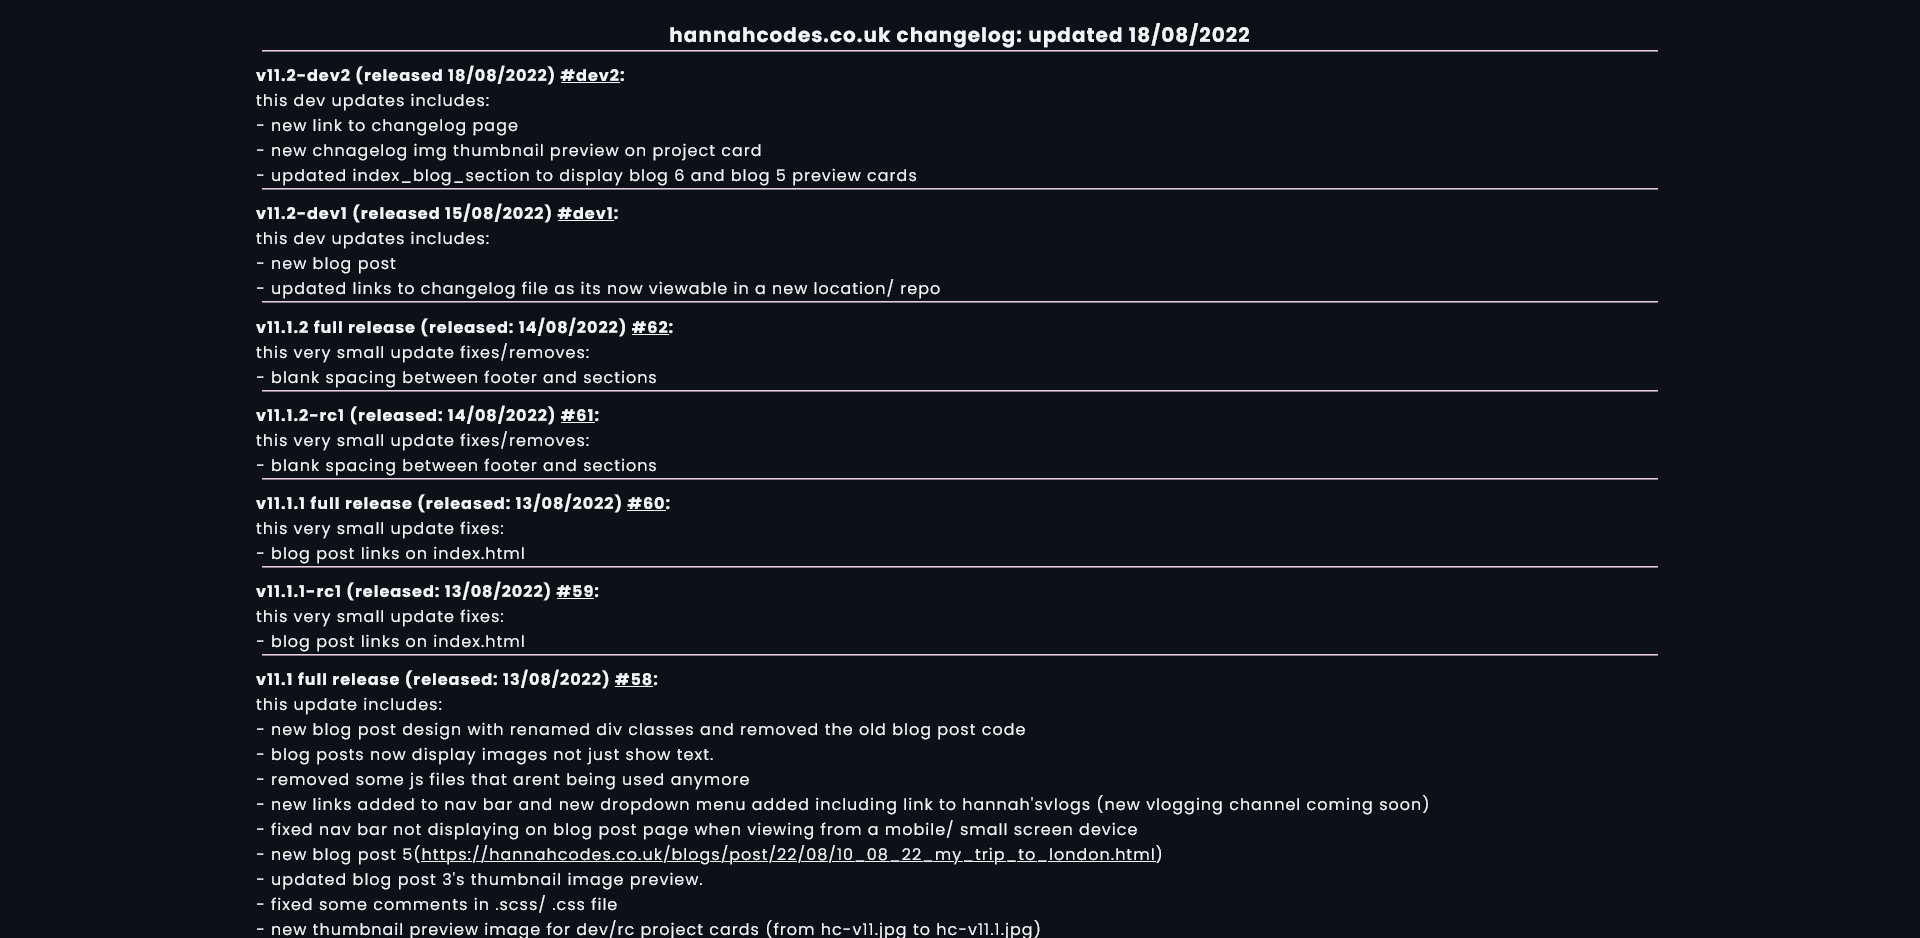
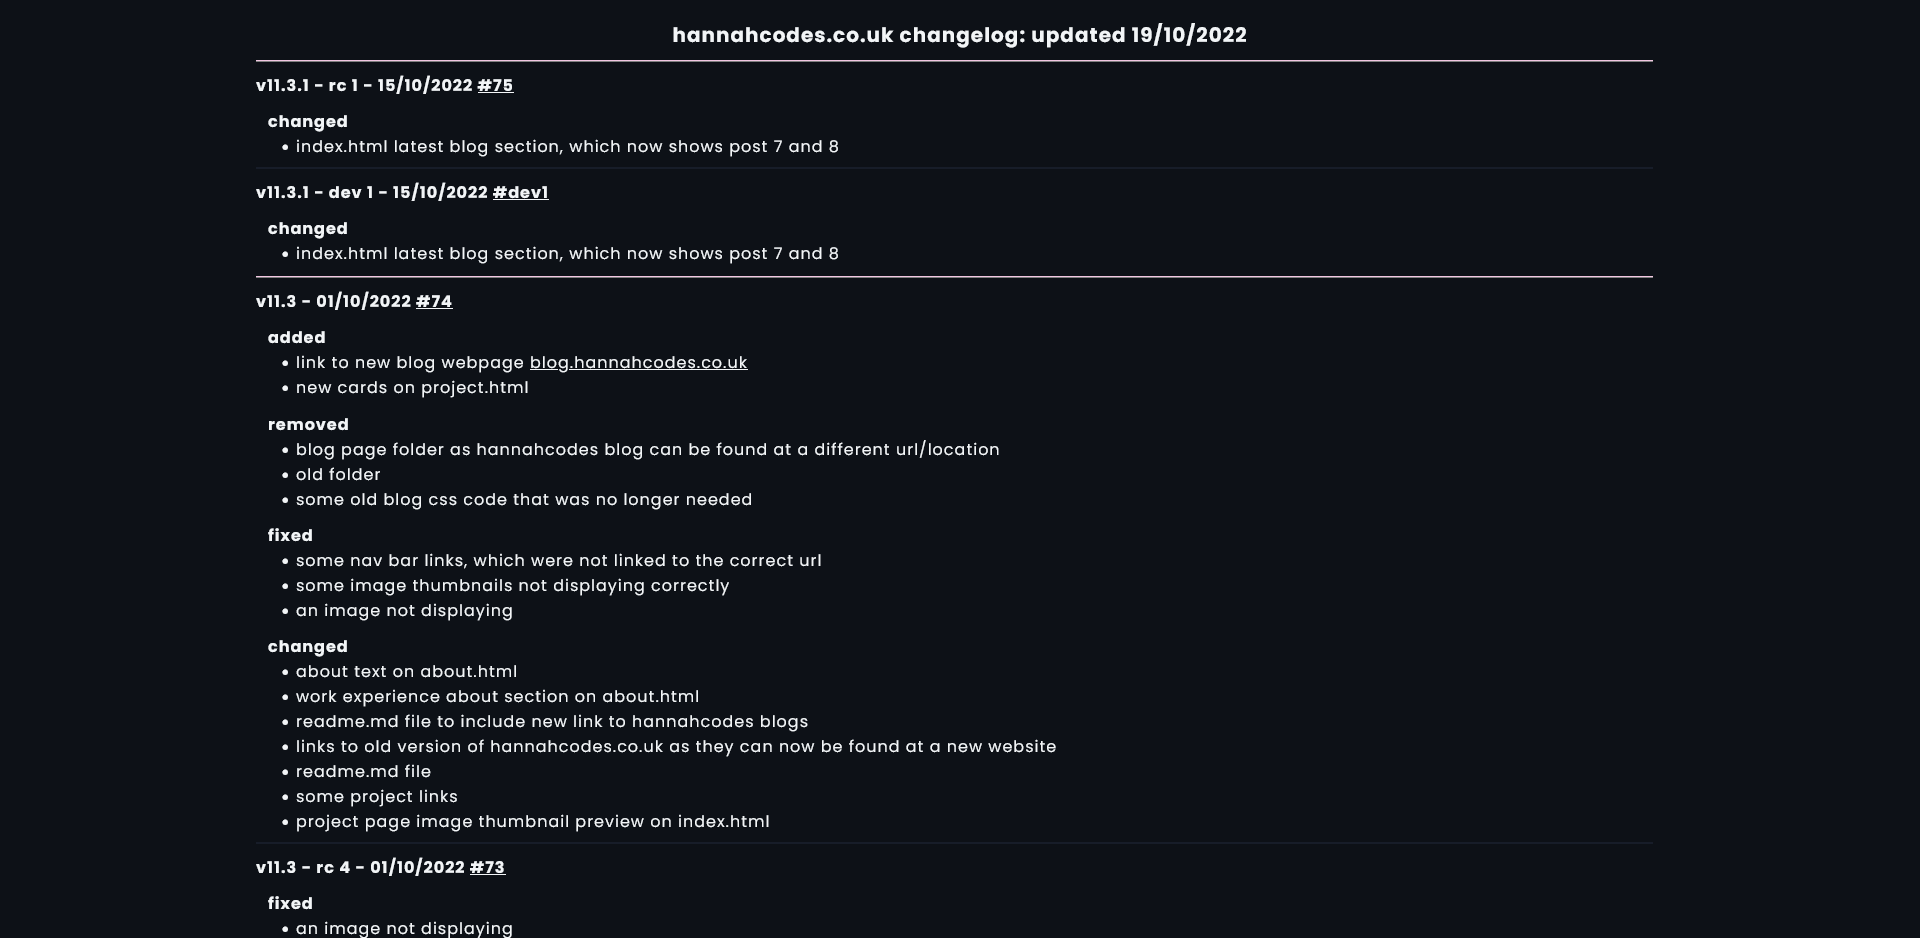
added new cards to v11.2, 11. 2.1, 11.3 and v11.3.1 also updated changelog thumbnail preview image

Changed region(s): [[0.125, 0.0618, 0.75, 1.0], [0.3438, 0.0309, 0.6562, 0.0618]]

diff --git a/projects.html b/projects.html
@@ -217,11 +217,47 @@ class="bg"
             <div  class="project_card project_card_a">
               <div class="blog_page_thumb" style="background-image: url(/assets/images/projects/hc-v11.2.jpg);"></div>
               <article>
-                <div class="project_links_placement"><div class="link_placement"><a href="https://hannahcodes.co.uk/index.html" class="projects_links"> hannahcodes.co.uk (v11.2)</a> <svg xmlns="http://www.w3.org/2000/svg" viewBox="0 0 512 512"><!--! Font Awesome Pro 6.1.1 by @fontawesome - https://fontawesome.com License - https://fontawesome.com/license (Commercial License) Copyright 2022 Fonticons, Inc. --><path d="M384 320c-17.67 0-32 14.33-32 32v96H64V160h96c17.67 0 32-14.32 32-32s-14.33-32-32-32L64 96c-35.35 0-64 28.65-64 64V448c0 35.34 28.65 64 64 64h288c35.35 0 64-28.66 64-64v-96C416 334.3 401.7 320 384 320zM488 0H352c-12.94 0-24.62 7.797-29.56 19.75c-4.969 11.97-2.219 25.72 6.938 34.88L370.8 96L169.4 297.4c-12.5 12.5-12.5 32.75 0 45.25C175.6 348.9 183.8 352 192 352s16.38-3.125 22.62-9.375L416 141.3l41.38 41.38c9.156 9.141 22.88 11.84 34.88 6.938C504.2 184.6 512 172.9 512 160V24C512 10.74 501.3 0 488 0z"/></svg></div> </div>
+                <div class="project_links_placement"><div class="link_placement"><a href="https://old.hannahcodes.co.uk/hannahcodes/v11.2/index.html" class="projects_links">hannahcodes.co.uk (v11.2)</a> <svg xmlns="http://www.w3.org/2000/svg" viewBox="0 0 512 512"><!--! Font Awesome Pro 6.1.1 by @fontawesome - https://fontawesome.com License - https://fontawesome.com/license (Commercial License) Copyright 2022 Fonticons, Inc. --><path d="M384 320c-17.67 0-32 14.33-32 32v96H64V160h96c17.67 0 32-14.32 32-32s-14.33-32-32-32L64 96c-35.35 0-64 28.65-64 64V448c0 35.34 28.65 64 64 64h288c35.35 0 64-28.66 64-64v-96C416 334.3 401.7 320 384 320zM488 0H352c-12.94 0-24.62 7.797-29.56 19.75c-4.969 11.97-2.219 25.72 6.938 34.88L370.8 96L169.4 297.4c-12.5 12.5-12.5 32.75 0 45.25C175.6 348.9 183.8 352 192 352s16.38-3.125 22.62-9.375L416 141.3l41.38 41.38c9.156 9.141 22.88 11.84 34.88 6.938C504.2 184.6 512 172.9 512 160V24C512 10.74 501.3 0 488 0z"/></svg></div> </div>
         <br>
         <div class="project_links_placement"><div class="link_placement"><svg class="source_code_svg" xmlns="http://www.w3.org/2000/svg" viewBox="0 0 448 512"><path d="M160 80C160 112.8 140.3 140.1 112 153.3V241.1C130.8 230.2 152.7 224 176 224H272C307.3 224 336 195.3 336 160V153.3C307.7 140.1 288 112.8 288 80C288 35.82 323.8 0 368 0C412.2 0 448 35.82 448 80C448 112.8 428.3 140.1 400 153.3V160C400 230.7 342.7 288 272 288H176C140.7 288 112 316.7 112 352V358.7C140.3 371 160 399.2 160 432C160 476.2 124.2 512 80 512C35.82 512 0 476.2 0 432C0 399.2 19.75 371 48 358.7V153.3C19.75 140.1 0 112.8 0 80C0 35.82 35.82 0 80 0C124.2 0 160 35.82 160 80V80zM80 104C93.25 104 104 93.25 104 80C104 66.75 93.25 56 80 56C66.75 56 56 66.75 56 80C56 93.25 66.75 104 80 104zM368 56C354.7 56 344 66.75 344 80C344 93.25 354.7 104 368 104C381.3 104 392 93.25 392 80C392 66.75 381.3 56 368 56zM80 456C93.25 456 104 445.3 104 432C104 418.7 93.25 408 80 408C66.75 408 56 418.7 56 432C56 445.3 66.75 456 80 456z"/></svg> 
-          <a href="https://github.com/Transgirlcoding/hannahcodes.co.uk" class="source_code_links">source code</a></div>
-        </div>
+          <a href="https://github.com/Transgirlcoding/old.hannahcodes.co.uk/hannahcodes/v11.2/" class="source_code_links">source code</a></div>
+    </div>
+              </article>
+            </div>
+          </div>
+          <div class="item-7">
+            <div  class="project_card project_card_a">
+              <div class="blog_page_thumb" style="background-image: url(/assets/images/projects/hc-v11.2.jpg);"></div>
+              <article>
+                <div class="project_links_placement"><div class="link_placement"><a href="https://old.hannahcodes.co.uk/hannahcodes/v11.2.1/index.html" class="projects_links">hannahcodes.co.uk (v11.2.1)</a> <svg xmlns="http://www.w3.org/2000/svg" viewBox="0 0 512 512"><!--! Font Awesome Pro 6.1.1 by @fontawesome - https://fontawesome.com License - https://fontawesome.com/license (Commercial License) Copyright 2022 Fonticons, Inc. --><path d="M384 320c-17.67 0-32 14.33-32 32v96H64V160h96c17.67 0 32-14.32 32-32s-14.33-32-32-32L64 96c-35.35 0-64 28.65-64 64V448c0 35.34 28.65 64 64 64h288c35.35 0 64-28.66 64-64v-96C416 334.3 401.7 320 384 320zM488 0H352c-12.94 0-24.62 7.797-29.56 19.75c-4.969 11.97-2.219 25.72 6.938 34.88L370.8 96L169.4 297.4c-12.5 12.5-12.5 32.75 0 45.25C175.6 348.9 183.8 352 192 352s16.38-3.125 22.62-9.375L416 141.3l41.38 41.38c9.156 9.141 22.88 11.84 34.88 6.938C504.2 184.6 512 172.9 512 160V24C512 10.74 501.3 0 488 0z"/></svg></div> </div>
+        <br>
+        <div class="project_links_placement"><div class="link_placement"><svg class="source_code_svg" xmlns="http://www.w3.org/2000/svg" viewBox="0 0 448 512"><path d="M160 80C160 112.8 140.3 140.1 112 153.3V241.1C130.8 230.2 152.7 224 176 224H272C307.3 224 336 195.3 336 160V153.3C307.7 140.1 288 112.8 288 80C288 35.82 323.8 0 368 0C412.2 0 448 35.82 448 80C448 112.8 428.3 140.1 400 153.3V160C400 230.7 342.7 288 272 288H176C140.7 288 112 316.7 112 352V358.7C140.3 371 160 399.2 160 432C160 476.2 124.2 512 80 512C35.82 512 0 476.2 0 432C0 399.2 19.75 371 48 358.7V153.3C19.75 140.1 0 112.8 0 80C0 35.82 35.82 0 80 0C124.2 0 160 35.82 160 80V80zM80 104C93.25 104 104 93.25 104 80C104 66.75 93.25 56 80 56C66.75 56 56 66.75 56 80C56 93.25 66.75 104 80 104zM368 56C354.7 56 344 66.75 344 80C344 93.25 354.7 104 368 104C381.3 104 392 93.25 392 80C392 66.75 381.3 56 368 56zM80 456C93.25 456 104 445.3 104 432C104 418.7 93.25 408 80 408C66.75 408 56 418.7 56 432C56 445.3 66.75 456 80 456z"/></svg> 
+          <a href="https://github.com/Transgirlcoding/old.hannahcodes.co.uk/hannahcodes/v11.2.1/" class="source_code_links">source code</a></div>
+    </div>
+              </article>
+            </div>
+          </div>
+          <div class="item-7">
+            <div  class="project_card project_card_a">
+              <div class="blog_page_thumb" style="background-image: url(/assets/images/projects/hc-v11.2.jpg);"></div>
+              <article>
+                <div class="project_links_placement"><div class="link_placement"><a href="https://old.hannahcodes.co.uk/hannahcodes/v11.3/index.html" class="projects_links">hannahcodes.co.uk (v11.3)</a> <svg xmlns="http://www.w3.org/2000/svg" viewBox="0 0 512 512"><!--! Font Awesome Pro 6.1.1 by @fontawesome - https://fontawesome.com License - https://fontawesome.com/license (Commercial License) Copyright 2022 Fonticons, Inc. --><path d="M384 320c-17.67 0-32 14.33-32 32v96H64V160h96c17.67 0 32-14.32 32-32s-14.33-32-32-32L64 96c-35.35 0-64 28.65-64 64V448c0 35.34 28.65 64 64 64h288c35.35 0 64-28.66 64-64v-96C416 334.3 401.7 320 384 320zM488 0H352c-12.94 0-24.62 7.797-29.56 19.75c-4.969 11.97-2.219 25.72 6.938 34.88L370.8 96L169.4 297.4c-12.5 12.5-12.5 32.75 0 45.25C175.6 348.9 183.8 352 192 352s16.38-3.125 22.62-9.375L416 141.3l41.38 41.38c9.156 9.141 22.88 11.84 34.88 6.938C504.2 184.6 512 172.9 512 160V24C512 10.74 501.3 0 488 0z"/></svg></div> </div>
+        <br>
+        <div class="project_links_placement"><div class="link_placement"><svg class="source_code_svg" xmlns="http://www.w3.org/2000/svg" viewBox="0 0 448 512"><path d="M160 80C160 112.8 140.3 140.1 112 153.3V241.1C130.8 230.2 152.7 224 176 224H272C307.3 224 336 195.3 336 160V153.3C307.7 140.1 288 112.8 288 80C288 35.82 323.8 0 368 0C412.2 0 448 35.82 448 80C448 112.8 428.3 140.1 400 153.3V160C400 230.7 342.7 288 272 288H176C140.7 288 112 316.7 112 352V358.7C140.3 371 160 399.2 160 432C160 476.2 124.2 512 80 512C35.82 512 0 476.2 0 432C0 399.2 19.75 371 48 358.7V153.3C19.75 140.1 0 112.8 0 80C0 35.82 35.82 0 80 0C124.2 0 160 35.82 160 80V80zM80 104C93.25 104 104 93.25 104 80C104 66.75 93.25 56 80 56C66.75 56 56 66.75 56 80C56 93.25 66.75 104 80 104zM368 56C354.7 56 344 66.75 344 80C344 93.25 354.7 104 368 104C381.3 104 392 93.25 392 80C392 66.75 381.3 56 368 56zM80 456C93.25 456 104 445.3 104 432C104 418.7 93.25 408 80 408C66.75 408 56 418.7 56 432C56 445.3 66.75 456 80 456z"/></svg> 
+          <a href="https://github.com/Transgirlcoding/old.hannahcodes.co.uk/hannahcodes/v11.3/" class="source_code_links">source code</a></div>
+    </div>
+              </article>
+            </div>
+          </div>
+          <div class="item-7">
+            <div  class="project_card project_card_a">
+              <div class="blog_page_thumb" style="background-image: url(/assets/images/projects/hc-v11.2.jpg);"></div>
+              <article>
+                <div class="project_links_placement"><div class="link_placement"><a href="https://hannahcodes.co.uk/index.html" class="projects_links">hannahcodes.co.uk (v11.3.1)</a> <svg xmlns="http://www.w3.org/2000/svg" viewBox="0 0 512 512"><!--! Font Awesome Pro 6.1.1 by @fontawesome - https://fontawesome.com License - https://fontawesome.com/license (Commercial License) Copyright 2022 Fonticons, Inc. --><path d="M384 320c-17.67 0-32 14.33-32 32v96H64V160h96c17.67 0 32-14.32 32-32s-14.33-32-32-32L64 96c-35.35 0-64 28.65-64 64V448c0 35.34 28.65 64 64 64h288c35.35 0 64-28.66 64-64v-96C416 334.3 401.7 320 384 320zM488 0H352c-12.94 0-24.62 7.797-29.56 19.75c-4.969 11.97-2.219 25.72 6.938 34.88L370.8 96L169.4 297.4c-12.5 12.5-12.5 32.75 0 45.25C175.6 348.9 183.8 352 192 352s16.38-3.125 22.62-9.375L416 141.3l41.38 41.38c9.156 9.141 22.88 11.84 34.88 6.938C504.2 184.6 512 172.9 512 160V24C512 10.74 501.3 0 488 0z"/></svg></div> </div>
+        <br>
+        <div class="project_links_placement"><div class="link_placement"><svg class="source_code_svg" xmlns="http://www.w3.org/2000/svg" viewBox="0 0 448 512"><path d="M160 80C160 112.8 140.3 140.1 112 153.3V241.1C130.8 230.2 152.7 224 176 224H272C307.3 224 336 195.3 336 160V153.3C307.7 140.1 288 112.8 288 80C288 35.82 323.8 0 368 0C412.2 0 448 35.82 448 80C448 112.8 428.3 140.1 400 153.3V160C400 230.7 342.7 288 272 288H176C140.7 288 112 316.7 112 352V358.7C140.3 371 160 399.2 160 432C160 476.2 124.2 512 80 512C35.82 512 0 476.2 0 432C0 399.2 19.75 371 48 358.7V153.3C19.75 140.1 0 112.8 0 80C0 35.82 35.82 0 80 0C124.2 0 160 35.82 160 80V80zM80 104C93.25 104 104 93.25 104 80C104 66.75 93.25 56 80 56C66.75 56 56 66.75 56 80C56 93.25 66.75 104 80 104zM368 56C354.7 56 344 66.75 344 80C344 93.25 354.7 104 368 104C381.3 104 392 93.25 392 80C392 66.75 381.3 56 368 56zM80 456C93.25 456 104 445.3 104 432C104 418.7 93.25 408 80 408C66.75 408 56 418.7 56 432C56 445.3 66.75 456 80 456z"/></svg> 
+          <a href="https://github.com/Transgirlcoding/hannahcodes.co.uk/tree/main" class="source_code_links">source code</a></div>
+    </div>
               </article>
             </div>
           </div>
